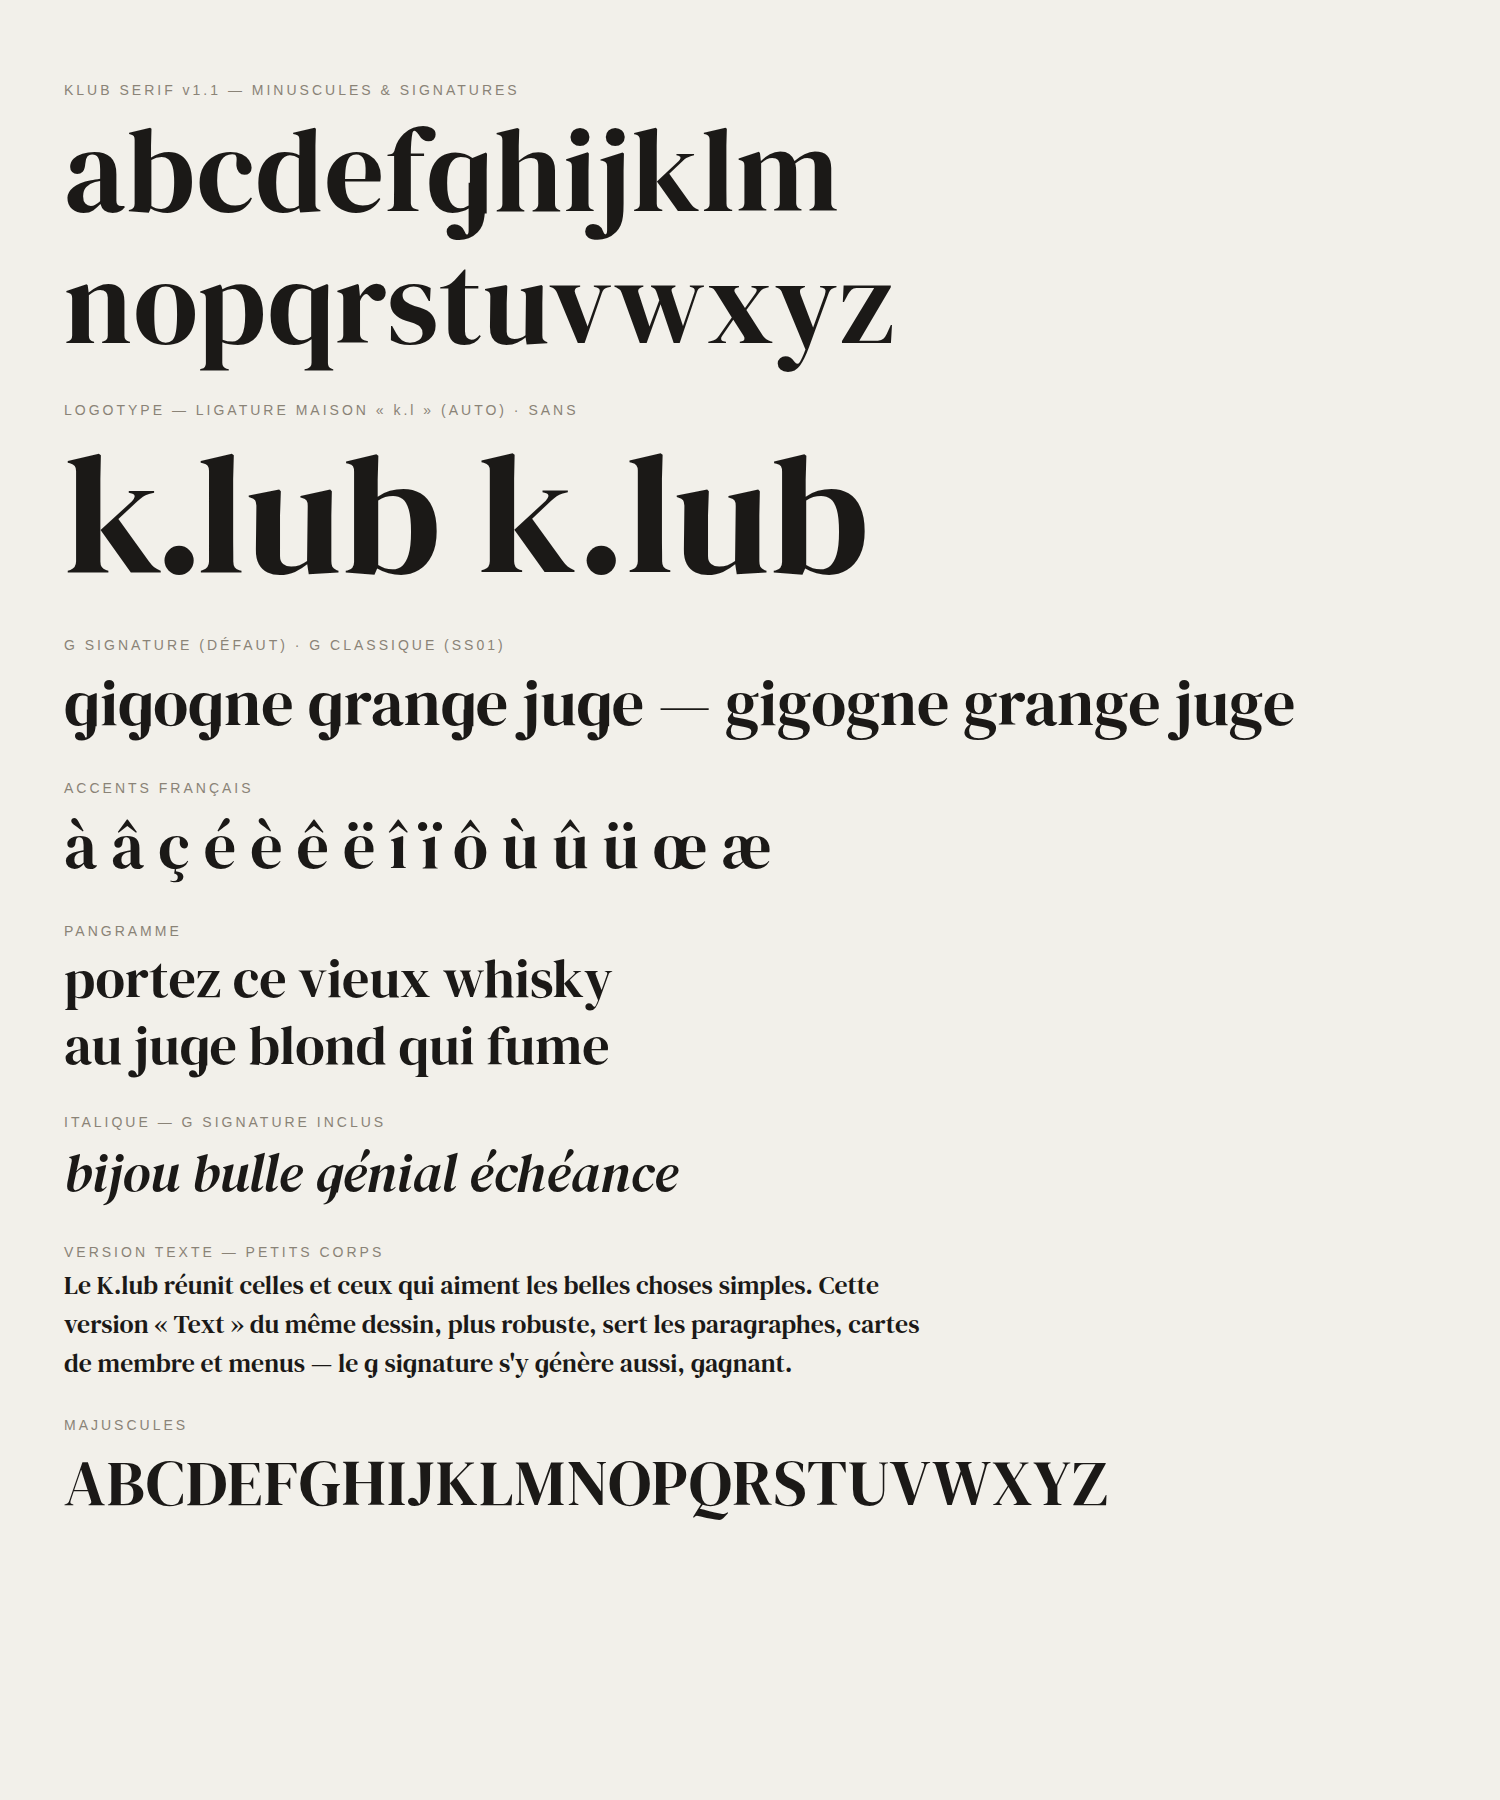
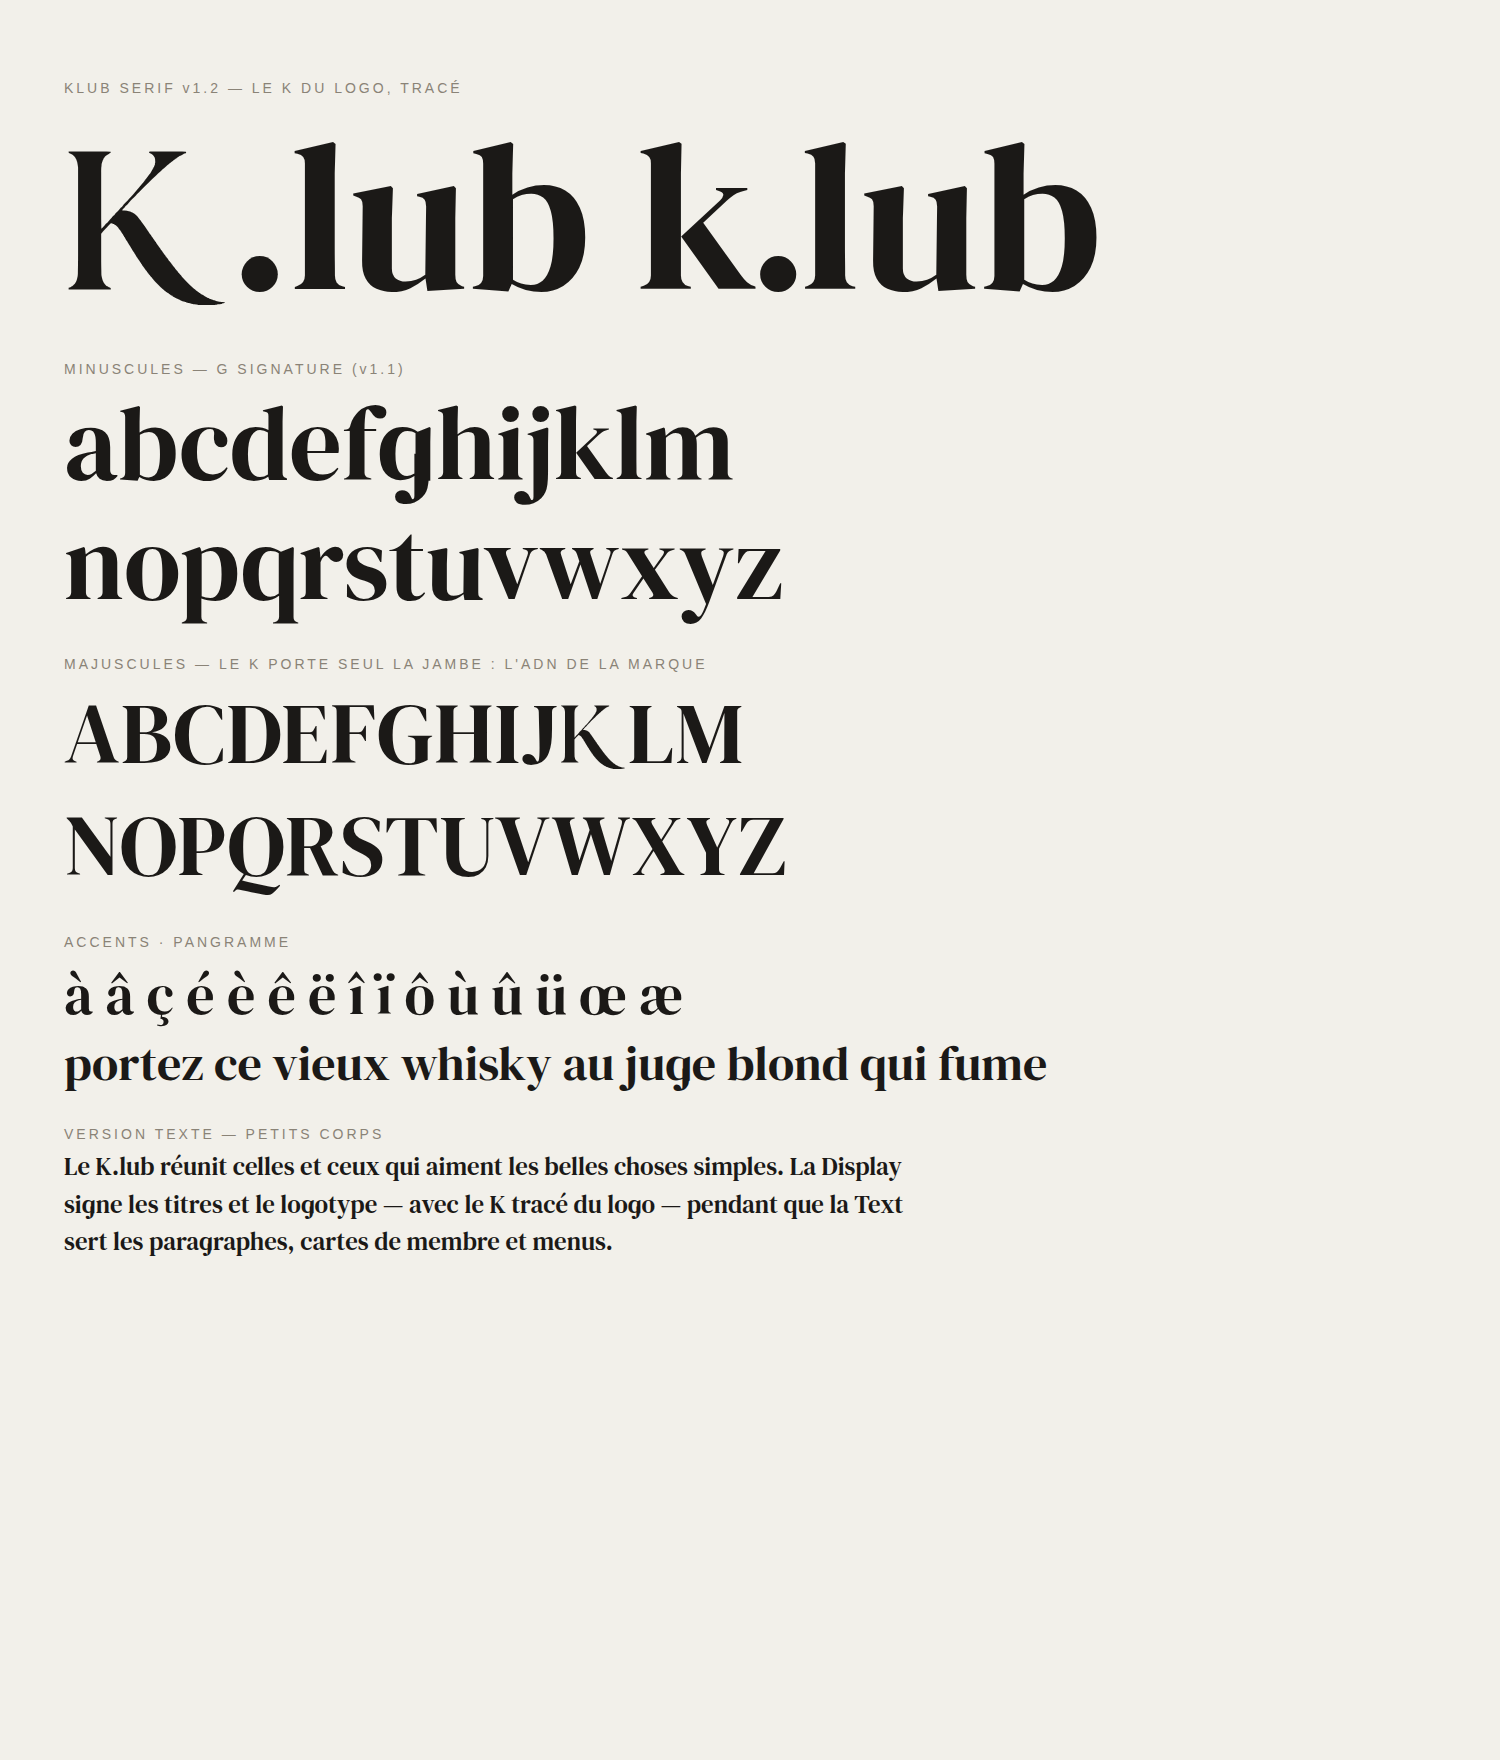
v1.2 — le K du logotype, trace et insere (Display Regular)
Le K de la Display Regular est desormais le trace vectorise du K
original du logo (assets-source/K.png, potrace 466 segments, cap calee
sur 660, jambe plongeant 75 unites sous la ligne, chasse 782). Le R
reste d'origine : la jambe swash est l'ADN exclusif du K. Verifications
HarfBuzz (ligatures k.l, fi et ss01 intactes), WOFF2 regenere, planche
et README a jour.

Claude-Session: https://claude.ai/code/session_01HMVSE1v98qbowRFcWfPTZD

Changed region(s): [[0.0307, 0.0312, 0.8587, 0.7812], [0.0307, 0.8125, 0.736, 0.8438]]

diff --git a/README.md b/README.md
@@ -1,7 +1,7 @@
 # Klub Serif
 
 Famille typographique du **K.lub** — quatre styles de qualité fonderie,
-fidèles au logotype. Version actuelle : **v1.1** (g signature + ligature « k.l »).
+fidèles au logotype. Version actuelle : **v1.2** (K du logotype tracé, g signature, ligature « k.l »).
 
 ![Specimen Klub Serif](docs/planche.png)
 
@@ -112,6 +112,7 @@ Licence **SIL Open Font License 1.1** — voir [`LICENSES/`](LICENSES/) :
 - [x] Famille 4 styles (Display/Text × romain/italique) — v1.0
 - [x] Signatures : g à un étage (défaut, classique en ss01) et
       ligature « k.l » — v1.1
+- [x] K du logotype tracé (Display Regular) — v1.2
 - [x] Feuille `klub-serif.css` + `install.sh`
 - [ ] Graisse supplémentaire si le besoin apparaît (non recommandé en
       synthétique ; à dessiner ou à emprunter à l'ascendance Source Serif)
